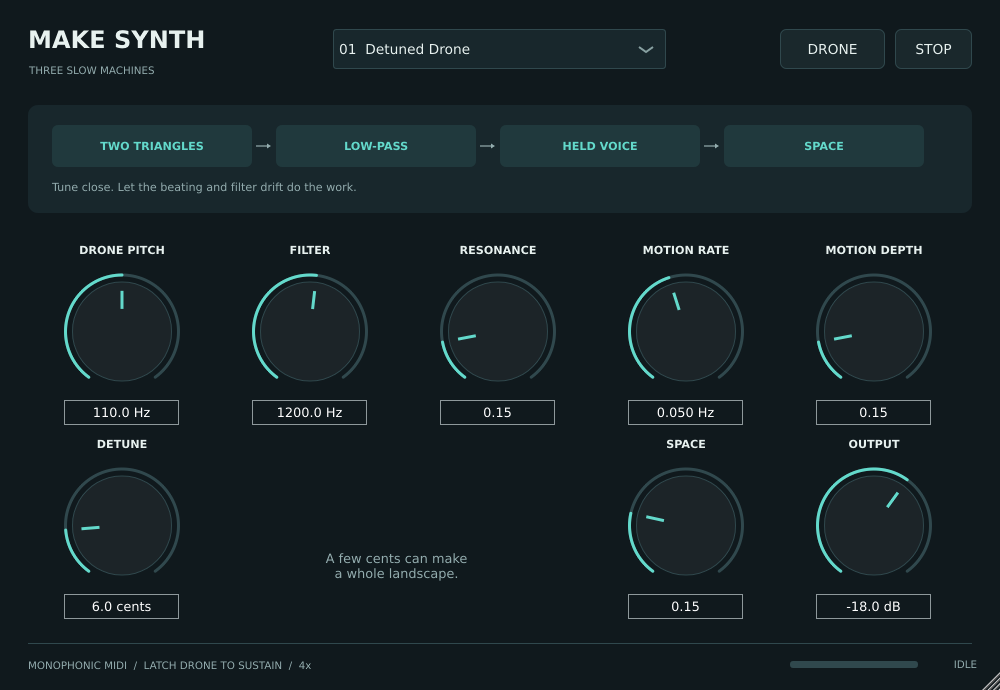
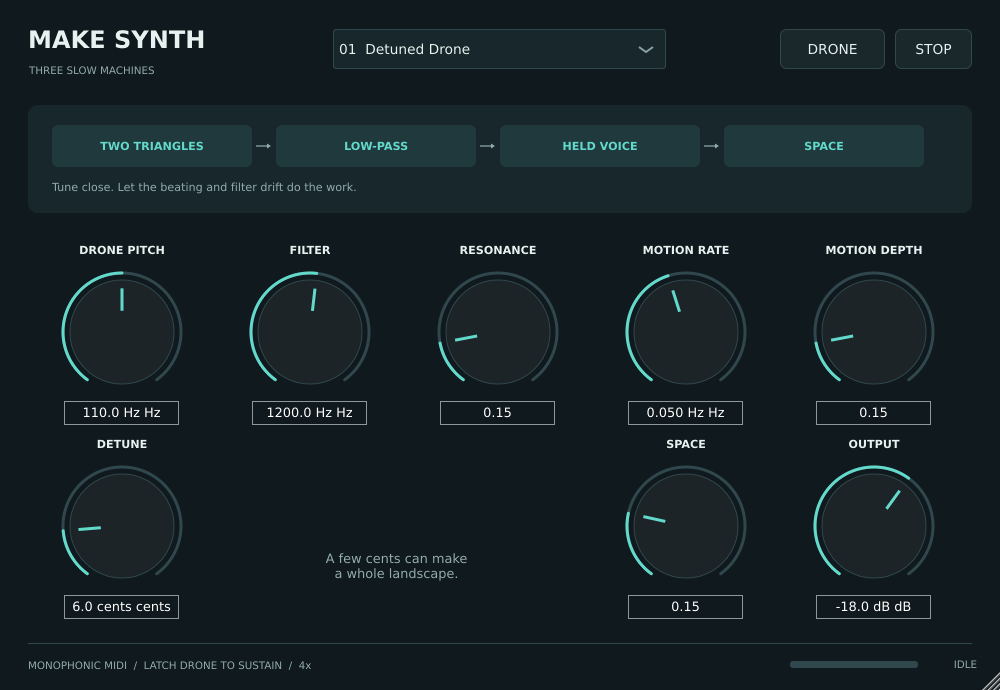
Enable interactive rotary knobs, keyboard focus, and full MIDI CC mapping

diff --git a/Source/PluginEditor.cpp b/Source/PluginEditor.cpp
@@ -8,8 +8,13 @@ const juce::Colour bg(0xff10191d),panel(0xff18272c),text(0xffe7f1ef),muted(0xff9
 SynthLook::SynthLook()
 {
     setColour(juce::Slider::textBoxTextColourId,text);
-    setColour(juce::Slider::textBoxBackgroundColourId,juce::Colours::transparentBlack);
-    setColour(juce::Slider::textBoxOutlineColourId,juce::Colours::transparentBlack);
+    setColour(juce::Slider::textBoxBackgroundColourId,panel.brighter(0.06f));
+    setColour(juce::Slider::textBoxOutlineColourId,line);
+    setColour(juce::Slider::textBoxHighlightColourId,accent.withAlpha(0.35f));
+    setColour(juce::TextEditor::textColourId,text);
+    setColour(juce::TextEditor::backgroundColourId,panel.brighter(0.12f));
+    setColour(juce::TextEditor::outlineColourId,accent);
+    setColour(juce::TextEditor::highlightColourId,accent.withAlpha(0.35f));
     setColour(juce::ComboBox::backgroundColourId,panel); setColour(juce::ComboBox::outlineColourId,line);
     setColour(juce::ComboBox::textColourId,text); setColour(juce::ComboBox::arrowColourId,muted);
     setColour(juce::PopupMenu::backgroundColourId,panel); setColour(juce::PopupMenu::textColourId,text);
@@ -19,37 +24,54 @@ SynthLook::SynthLook()
 
 void SynthLook::drawRotarySlider(juce::Graphics& g,int x,int y,int w,int h,float position,float start,float end,juce::Slider& s)
 {
-    auto r=juce::Rectangle<float>(static_cast<float>(x),static_cast<float>(y),static_cast<float>(w),static_cast<float>(h)).reduced(12);
+    auto r=juce::Rectangle<float>(static_cast<float>(x),static_cast<float>(y),static_cast<float>(w),static_cast<float>(h)).reduced(10);
     const float radius=std::min(r.getWidth(),r.getHeight())*0.5f,cx=r.getCentreX(),cy=r.getCentreY();
-    const auto active=s.isEnabled()?accent:muted.withAlpha(0.25f);
+    const bool isHovered=s.isEnabled() && s.isMouseOverOrDragging();
+    const auto active=s.isEnabled()?(isHovered?accent.brighter(0.25f):accent):muted.withAlpha(0.25f);
     juce::Path track; track.addCentredArc(cx,cy,radius,radius,0,start,end,true);
-    g.setColour(line); g.strokePath(track,juce::PathStrokeType(3.0f,juce::PathStrokeType::curved,juce::PathStrokeType::rounded));
+    g.setColour(isHovered?line.brighter(0.20f):line);
+    g.strokePath(track,juce::PathStrokeType(isHovered?4.0f:3.0f,juce::PathStrokeType::curved,juce::PathStrokeType::rounded));
     juce::Path arc; arc.addCentredArc(cx,cy,radius,radius,0,start,start+position*(end-start),true);
-    g.setColour(active); g.strokePath(arc,juce::PathStrokeType(3.0f,juce::PathStrokeType::curved,juce::PathStrokeType::rounded));
-    g.setColour(bg.brighter(0.055f)); g.fillEllipse(cx-radius+7,cy-radius+7,2*radius-14,2*radius-14);
-    g.setColour(line); g.drawEllipse(cx-radius+7,cy-radius+7,2*radius-14,2*radius-14,1);
+    g.setColour(active);
+    g.strokePath(arc,juce::PathStrokeType(isHovered?4.0f:3.0f,juce::PathStrokeType::curved,juce::PathStrokeType::rounded));
+    const float bodyRadius=radius-7;
+    g.setColour(isHovered?bg.brighter(0.10f):bg.brighter(0.055f));
+    g.fillEllipse(cx-bodyRadius,cy-bodyRadius,2*bodyRadius,2*bodyRadius);
+    g.setColour(isHovered?active.withAlpha(0.85f):line);
+    g.drawEllipse(cx-bodyRadius,cy-bodyRadius,2*bodyRadius,2*bodyRadius,isHovered?1.5f:1.0f);
     const auto angle=start+position*(end-start);
-    g.setColour(active); g.drawLine(cx+std::sin(angle)*radius*0.40f,cy-std::cos(angle)*radius*0.40f,
-                                  cx+std::sin(angle)*radius*0.72f,cy-std::cos(angle)*radius*0.72f,3);
+    g.setColour(active);
+    g.drawLine(cx+std::sin(angle)*radius*0.36f,cy-std::cos(angle)*radius*0.36f,
+               cx+std::sin(angle)*radius*0.74f,cy-std::cos(angle)*radius*0.74f,isHovered?3.5f:3.0f);
 }
 
 MakeSynthEditor::Knob::Knob(juce::AudioProcessorValueTreeState& state,const char* id,const char* title,const char* suffix,const char* tip)
 {
     label.setText(title,juce::dontSendNotification); label.setJustificationType(juce::Justification::centred);
     label.setFont(juce::FontOptions(13.0f,juce::Font::bold)); label.setColour(juce::Label::textColourId,text);
-    slider.setSliderStyle(juce::Slider::RotaryHorizontalVerticalDrag);
-    slider.setTextBoxStyle(juce::Slider::TextBoxBelow,false,115,25);
+    label.setInterceptsMouseClicks(false,false);
+    slider.setSliderStyle(juce::Slider::RotaryVerticalDrag);
+    slider.setMouseDragSensitivity(180);
+    slider.setScrollWheelEnabled(true);
+    slider.setVelocityBasedMode(false);
+    slider.setMouseCursor(juce::MouseCursor::UpDownResizeCursor);
+    slider.setTextBoxStyle(juce::Slider::TextBoxBelow,false,115,24);
     slider.setTextValueSuffix(suffix); slider.setTooltip(tip);
     slider.setNumDecimalPlacesToDisplay(2);
     slider.setRotaryParameters(juce::MathConstants<float>::pi*1.2f,juce::MathConstants<float>::pi*2.8f,true);
     addAndMakeVisible(label); addAndMakeVisible(slider);
     attachment=std::make_unique<juce::AudioProcessorValueTreeState::SliderAttachment>(state,id,slider);
     const auto control=juce::String(id);
-    slider.textFromValueFunction=[control](double v)
+    const auto unitSuffix=juce::String(suffix);
+    slider.textFromValueFunction=[control,unitSuffix](double v)
     {
         const int places=control=="rate" || control=="fmRatio" ? 3 :
                          control=="frequency" || control=="cutoff" || control=="detune" || control=="output" ? 1 : 2;
-        return juce::String(v,places);
+        return juce::String(v,places) + unitSuffix;
+    };
+    slider.valueFromTextFunction=[](const juce::String& t)
+    {
+        return t.getDoubleValue();
     };
     slider.updateText();
 }

diff --git a/Source/PluginProcessor.cpp b/Source/PluginProcessor.cpp
@@ -34,8 +34,18 @@ MakeSynthProcessor::MakeSynthProcessor()
       state(*this,nullptr,"MakeSynthState",layout()),
       oversampling(2,2,juce::dsp::Oversampling<float>::filterHalfBandPolyphaseIIR,true,true)
 {
-    for (size_t i=0; i<ids.size(); ++i) values[i]=state.getRawParameterValue(ids[i]);
+    for (size_t i=0; i<ids.size(); ++i)
+    {
+        values[i]=state.getRawParameterValue(ids[i]);
+        params[i]=state.getParameter(ids[i]);
+    }
     clearNotes();
+}
+
+void MakeSynthProcessor::setParameterFromMidi(size_t i, float normalizedValue) noexcept
+{
+    if (i < params.size() && params[i] != nullptr)
+        params[i]->setValueNotifyingHost(std::clamp(normalizedValue, 0.0f, 1.0f));
 }
 
 float MakeSynthProcessor::value(size_t i, float fallback) const noexcept
@@ -115,10 +125,49 @@ void MakeSynthProcessor::handleMidi(const juce::MidiMessage& m) noexcept
         auto& n=channel[static_cast<size_t>(m.getNoteNumber())];
         n.down=false; if (!sustain[static_cast<size_t>(c)]) n.held=false;
     }
-    else if (m.isController() && m.getControllerNumber()==64)
+    else if (m.isController())
     {
-        sustain[static_cast<size_t>(c)]=m.getControllerValue()>=64;
-        if (!sustain[static_cast<size_t>(c)]) for (auto& n:channel) if (!n.down) n.held=false;
+        const int cc = m.getControllerNumber();
+        const int val = m.getControllerValue();
+        if (cc == 64)
+        {
+            sustain[static_cast<size_t>(c)] = val >= 64;
+            if (!sustain[static_cast<size_t>(c)]) for (auto& n:channel) if (!n.down) n.held=false;
+        }
+        else
+        {
+            const float v = static_cast<float>(val) / 127.0f;
+            const int currentMode = std::clamp(static_cast<int>(value(0)), 0, 2);
+            switch (cc)
+            {
+                case 1:  // Mod Wheel -> primary expressive motion/depth for active mode
+                    if (currentMode == 0) setParameterFromMidi(6, v);      // motion
+                    else if (currentMode == 1) setParameterFromMidi(10, v);// breath
+                    else setParameterFromMidi(9, v);                      // fmDepth
+                    break;
+                case 11: // Expression pedal
+                    if (currentMode == 1) setParameterFromMidi(10, v);     // breath
+                    else if (currentMode == 0) setParameterFromMidi(6, v); // motion
+                    else setParameterFromMidi(9, v);                      // fmDepth
+                    break;
+                case 74: setParameterFromMidi(3, v); break;                // Filter cutoff / brightness
+                case 71: setParameterFromMidi(4, v); break;                // Filter resonance / timbre
+                case 76: case 14: setParameterFromMidi(5, v); break;       // Modulation rate
+                case 7:  setParameterFromMidi(13, v); break;               // Master volume -> output
+                case 91: setParameterFromMidi(12, v); break;               // Reverb send -> space
+                case 77: case 12: setParameterFromMidi(7, v); break;       // Detune (Mode 0)
+                case 78: case 13: setParameterFromMidi(8, v); break;       // FM Ratio (Mode 2)
+                case 75: case 15: setParameterFromMidi(9, v); break;       // FM Depth (Mode 2)
+                case 73: setParameterFromMidi(10, v); break;               // Breathing (Mode 1)
+                case 80: case 16: setParameterFromMidi(2, v); break;       // Drone Pitch
+                case 65: case 81: setParameterFromMidi(1, val >= 64 ? 1.0f : 0.0f); break; // Drone Latch
+                case 82: // Mode switch (0, 1, 2)
+                    setParameterFromMidi(0, val < 43 ? 0.0f : (val < 86 ? 0.5f : 1.0f));
+                    break;
+                case 83: setParameterFromMidi(11, val >= 64 ? 1.0f : 0.0f); break; // Noise color (pink/white)
+                default: break;
+            }
+        }
     }
     else if (m.isAllSoundOff()) { for (auto& n:channel) n={}; sustain[static_cast<size_t>(c)]=false; }
     else if (m.isAllNotesOff()) { for (auto& n:channel) { n.down=false; if (!sustain[static_cast<size_t>(c)]) n.held=false; } }

diff --git a/Tools/Render.cpp b/Tools/Render.cpp
@@ -91,6 +91,20 @@ void tests()
         require(std::abs(a.getSample(0,i)-b.getSample(0,i))<0.000002f,"MIDI timing depends on block size");
     require(rms(a,5000,2000)>0.001,"Sustain pedal failed to hold a released note");
 
+    events.clear();
+    events.addEvent(juce::MidiMessage::controllerEvent(1, 74, 100), 10);
+    events.addEvent(juce::MidiMessage::controllerEvent(1, 71, 90), 20);
+    events.addEvent(juce::MidiMessage::controllerEvent(1, 1, 80), 30);
+    render(p, 512, 512, events);
+    require(std::abs(p.state.getRawParameterValue("cutoff")->load() - p.state.getParameter("cutoff")->convertFrom0to1(100.0f / 127.0f)) < 1.0f, "MIDI CC 74 must control filter cutoff");
+    require(std::abs(p.state.getRawParameterValue("resonance")->load() - (90.0f / 127.0f)) < 0.01f, "MIDI CC 71 must control resonance");
+    require(std::abs(p.state.getRawParameterValue("motion")->load() - (80.0f / 127.0f)) < 0.01f, "MIDI CC 1 must control motion in mode 0");
+
+    {
+        std::unique_ptr<juce::AudioProcessorEditor> ed(p.createEditor());
+        require(ed != nullptr, "Editor creation failed");
+    }
+
     setup(p);
     juce::AudioBuffer<float> zero(2,0); juce::MidiBuffer zeroMidi;
     zeroMidi.addEvent(juce::MidiMessage::noteOn(1,60,0.8f),0);

diff --git a/Source/PluginProcessor.h b/Source/PluginProcessor.h
@@ -46,7 +46,9 @@ private:
     std::array<bool,16> sustain {};
     std::array<float,16> bend {};
     uint64_t noteOrder = 0;
+    void setParameterFromMidi(size_t i, float normalizedValue) noexcept;
     std::array<std::atomic<float>*,14> values {};
+    std::array<juce::RangedAudioParameter*,14> params {};
     makesynth::SynthEngine engine;
     juce::dsp::Oversampling<float> oversampling;
     juce::Reverb reverb;
